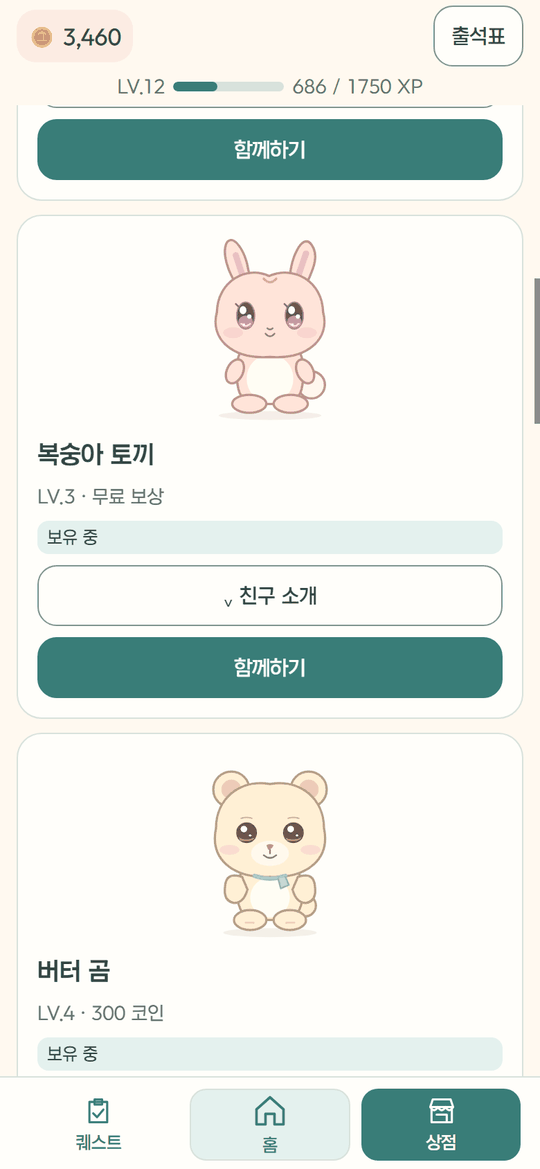
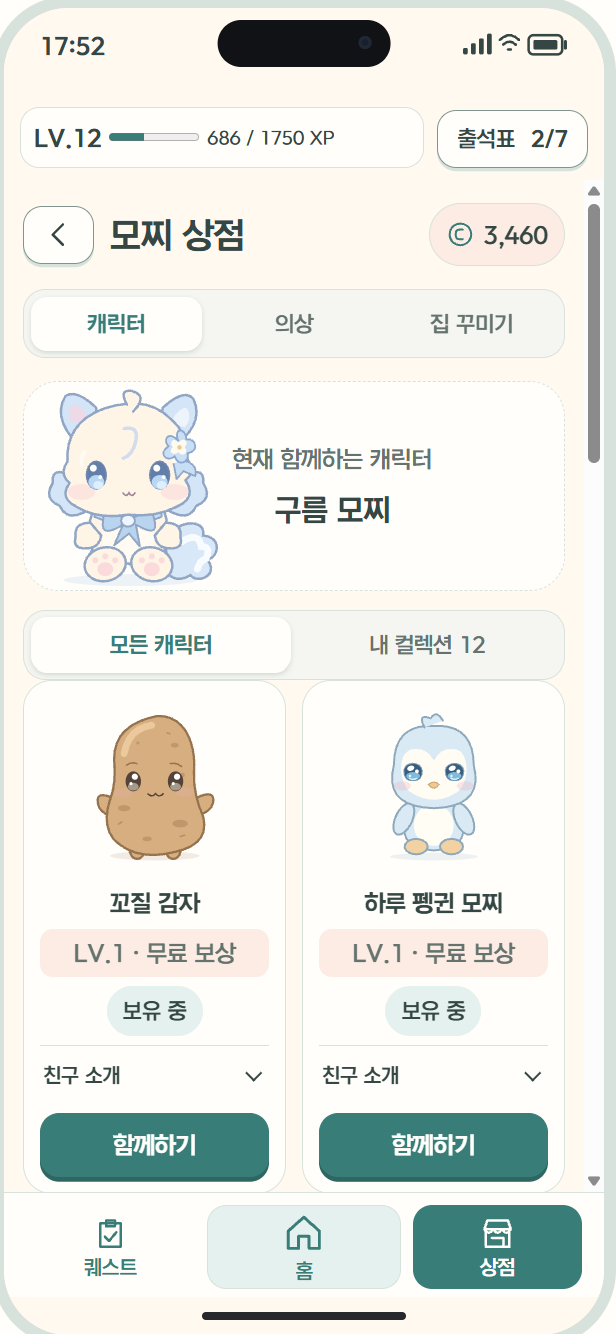
README: 전체 구조 그림(structure.png), 상점 화면 교체, 첫 화면 이미지, 제목 정리
- 6-0 전체 구조: 글자 도표 → structure.png
- 상점 화면(05-shop-friends.png) 새로, 첫 화면(firstpage.png) 추가
- 절 제목 정리 (앱 소개 · 제품 가이드 …)

diff --git a/README.md b/README.md
@@ -32,7 +32,7 @@
 
 ---
 
-## 1. 무엇을 만드나 (앱 소개 요약)
+## 1. 앱 소개
 
 **위험한 사람을 찾아내는 앱이 아니라**, 관계 맺기와 일상 활동이 어려운 사람에게 **지금 할 수 있는 작은 행동과 가벼운 만남을 게임처럼 건네고, 어떻게 하면 되는지까지 알려 주는 앱**이다. 목표는 검증하기 어려운 "예방"이 아니라 측정할 수 있는 **"활동과 교류를 늘리기"**.
 
@@ -47,7 +47,7 @@
 - **비슷한 앱과 다른 점**: Finch(스스로 체크·외출 초점 없음), 피크민 블룸(이미 걷는 사람 중심), Habitica(실패하면 벌), 상담 앱(이미 도움을 찾는 사람 대상)과 달리 → **아주 작은 외출부터 · 사진·걸음으로 확인되는 행동에만 보상 · 벌점 없음 · 가벼운 연결 · 도움받을 곳 안내**
 - **하지 않는 것**: 위험 점수·"위험군" 라벨, 일기 분석으로 마음 상태 평가, 전문 상담·개입. 이 연구들은 대부분 **관련성**이며 MOCHI 자체의 효과는 사용 데이터로 따로 확인해야 한다.
 
-## 2. 제품 한눈에 (제품 가이드 요약)
+## 2. 제품 가이드 
 
 **한 문장**: 작은 일상 활동과 하루 기록을, 모찌 친구와 함께 이어 가는 게임형 앱.
 
@@ -71,7 +71,7 @@
 
 **발표·홍보에서 피할 것**: 사회적 고립 예방·우울증 치료·위험도 진단 효과를 입증한 서비스처럼 말하지 않는다. 교수님 면담 의견을 "효과를 보증받음"으로 쓰지 않는다.
 
-## 3. 퀘스트 설계 (퀘스트 설계 요약)
+## 3. 퀘스트 설계
 
 검증된 심리학 개입 방법을 게임으로 옮긴다. 자세한 근거는 [QUEST_DESIGN.md](QUEST_DESIGN.md).
 
@@ -89,7 +89,7 @@
 
 **보상 원칙**: 밖에 나가는 미션이 가장 크고(20코인) 집 미션(12코인)·스스로 체크(5코인)는 작게, 실패·미완료는 벌점 없음. 상점 가격은 그대로 두고 "사는 데 며칠 걸리나"로 맞췄다 — 소품 1일 · 옷 2~3일 · 친구 2~6일 · 상점 전체 3~4달 ([backend/ECONOMY.md](backend/ECONOMY.md)).
 
-## 4. 지금 상태 (작업 기록 요약)
+## 4. 작업 기록 요약
 
 자세한 기록·체크리스트는 [PROGRESS.md](PROGRESS.md).
 
@@ -104,7 +104,7 @@
 
 **출시 전 남은 큰 일**: ① 서버 배포(HTTPS·DB·사진 저장소) ② Apple 로그인 ③ 운영자 신고 확인 화면 ④ 개인정보 처리방침·민감정보 동의 ⑤ 만 14세 미만 처리 ⑥ 실기기 빌드·테스트(걸음·알림·로그인 복귀) ⑦ 스토어 등록 자료
 
-## 5. 폴더와 실행
+## 5. 폴더 및 실행
 
 | 폴더 | 무엇 | 실행 |
 |---|---|---|
@@ -124,22 +124,7 @@
 
 ### 6-0. 전체 구조
 
-```text
- ┌──────────── 앱 (mobile/) ────────────┐   ┌──── 웹 (frontend/) ────┐
- │ Expo SDK 57 · React Native 0.86      │   │ React 19 · Vite 7      │
- │ iOS · Android (출시 대상)              │   │ 화면 확인·시연용          │
- └───────────────┬──────────────────────┘   └───────────┬────────────┘
-                 │   shared/ : 게임 규칙·데이터·SVG 그림·로그인 컨트롤러 (둘이 같이 씀)
-                 │                                      │
-                 ├──── Supabase Auth (Google · 카카오 로그인, OAuth PKCE)
-                 │                                      │
-                 └──────── HTTPS · Bearer 토큰 ─────────┘
-                                   ▼
-                 ┌──────── 서버 (backend/) ────────┐
-                 │ Python · FastAPI · Uvicorn       │  게임 규칙의 기준
-                 │ SQLite (app.db) · 사진 폴더       │  (코인·XP·레벨·미션·상점·출석)
-                 └──────────────────────────────────┘
-```
+<img src="docs/screenshots/structure.png" alt="전체 구조: 앱(mobile)·웹(frontend)이 shared를 같이 쓰고, Supabase Auth로 로그인, HTTPS·Bearer 토큰으로 서버(backend: FastAPI·SQLite)와 통신" width="100%">
 
 **원칙**: 코인·XP·레벨·미션 완료·상점·출석은 **서버가 판정**하고 앱·웹은 보여 주기만 한다(조작 방지, 앱·웹 결과가 같게). 서버 주소가 없으면 앱·웹은 휴대폰 안 기록으로 동작한다.
 
